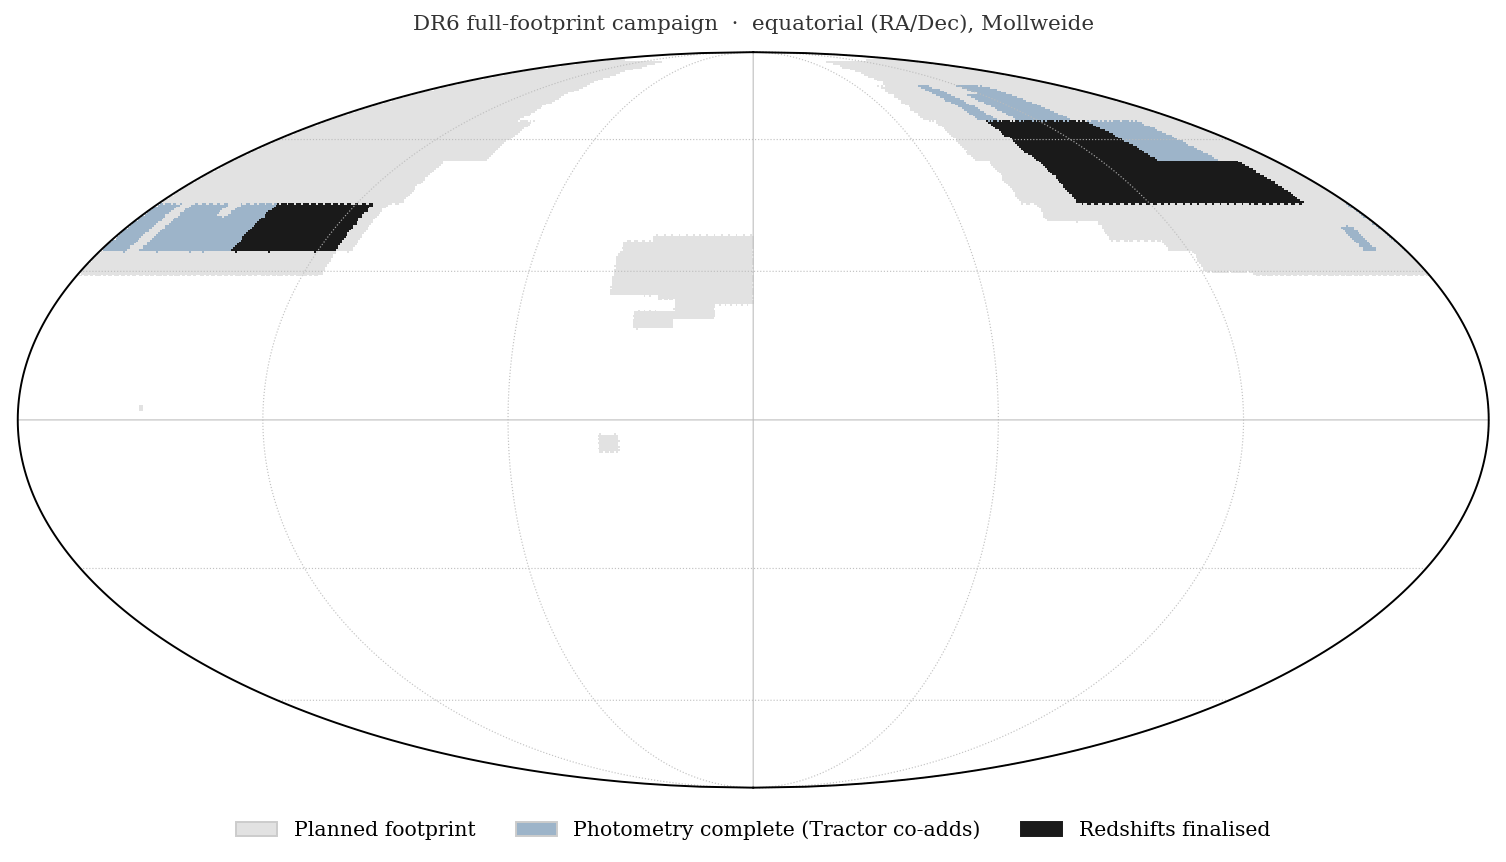
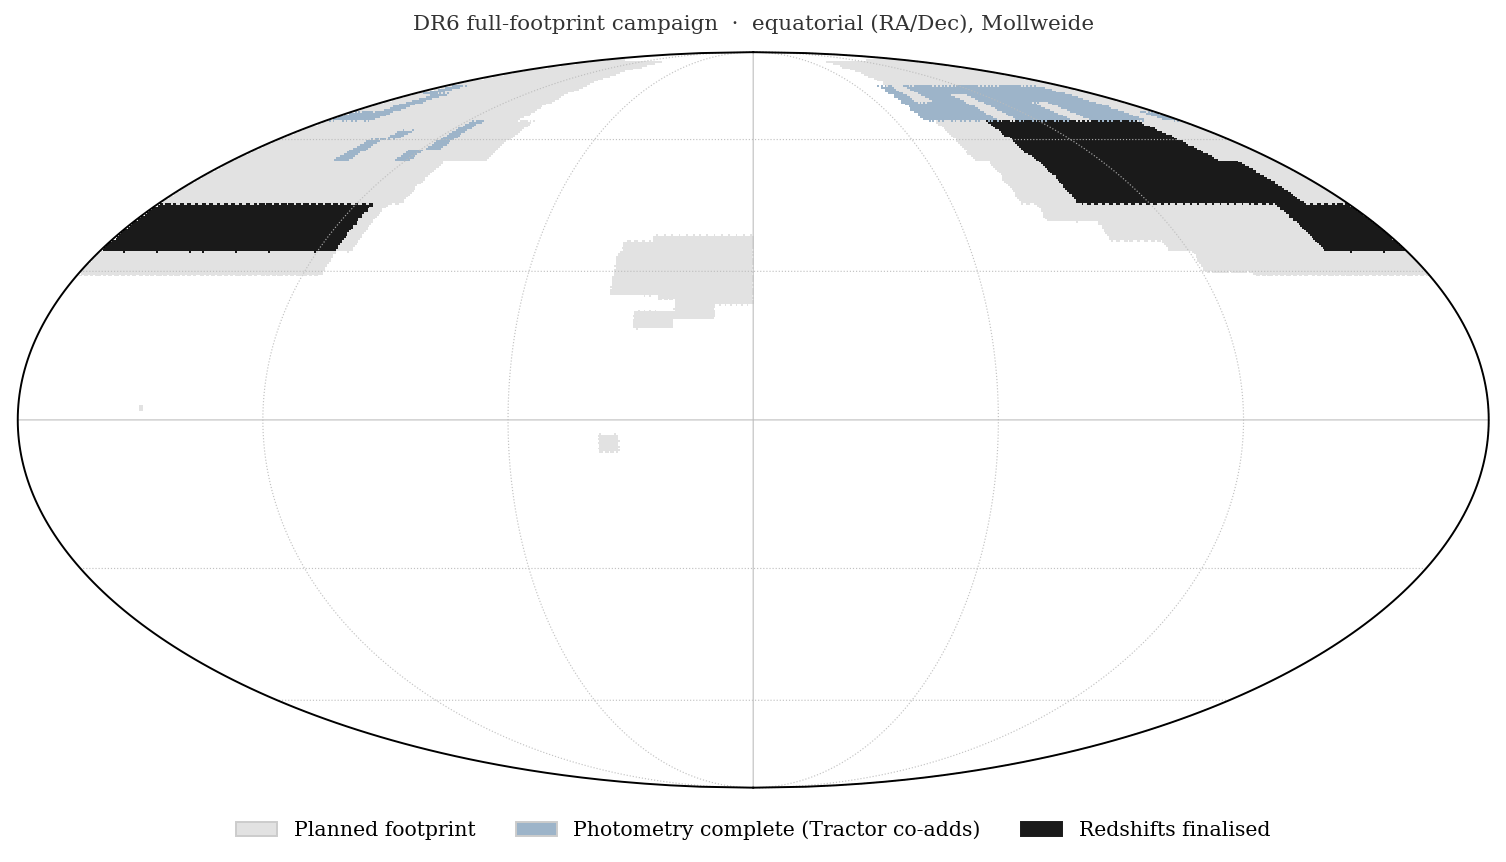
catalogue: refresh status — 13 finalised sub-regions (2.6M gal, ~1,830 deg² photometry)
Snapshot of live disk state 2026-07-04.

diff --git a/catalogue/status.html b/catalogue/status.html
@@ -44,7 +44,7 @@
   <h1>UNIONS position sample</h1>
   <p class="sub">Progress of the DR6 full-footprint catalogue campaign &mdash;
   forced photometry and redshifts.</p>
-  <p class="stamp">Snapshot generated 2026-07-03 18:28 CEST (Paris) &middot; 12:28 EDT (Waterloo) &middot; live disk state, preliminary.</p>
+  <p class="stamp">Snapshot generated 2026-07-04 10:36 CEST (Paris) &middot; 04:36 EDT (Waterloo) &middot; live disk state, preliminary.</p>
 
   <h2>Sky coverage</h2>
   <figure>
@@ -65,25 +65,25 @@
     <tbody>
       <tr>
         <td class="lab">Wave&nbsp;1 <span class='dim'>(ranks 0&ndash;9)</span></td>
-        <td class="num">996 deg&sup2;</td>
-        <td class="num">10 <span class="dim">(90%)</span></td>
+        <td class="num">1,077 deg&sup2;</td>
+        <td class="num">10 <span class="dim">(97%)</span></td>
         <td>8 = 895 deg&sup2; <span class="dim">(r000, r001, r002, r003, r004, r005, r006, r007)</span></td>
-        <td>7 = 786 deg&sup2; <span class="dim">(r000, r001, r002, r003, r004, r005, r007)</span></td>
+        <td>8 = 895 deg&sup2; <span class="dim">(r000, r001, r002, r003, r004, r005, r006, r007)</span></td>
       </tr>
       <tr>
         <td class="lab">Wave&nbsp;2 <span class='dim'>(ranks 10&ndash;29)</span></td>
-        <td class="num">378 deg&sup2;</td>
-        <td class="num">20 <span class="dim">(17%)</span></td>
-        <td>1 = 114 deg&sup2; <span class="dim">(r010)</span></td>
-        <td>1 = 114 deg&sup2; <span class="dim">(r010)</span></td>
+        <td class="num">753 deg&sup2;</td>
+        <td class="num">20 <span class="dim">(34%)</span></td>
+        <td>5 = 570 deg&sup2; <span class="dim">(r010, r011, r012, r013, r014)</span></td>
+        <td>5 = 570 deg&sup2; <span class="dim">(r010, r011, r012, r013, r014)</span></td>
       </tr>
     </tbody>
     <tfoot>
       <tr><td class="lab">Combined</td>
-        <td class="num">~1,374 deg&sup2;</td>
+        <td class="num">~1,830 deg&sup2;</td>
         <td class="num">64</td>
-        <td>9 = 1,008 deg&sup2;</td>
-        <td>8 = 900 deg&sup2;</td></tr>
+        <td>13 = 1,465 deg&sup2;</td>
+        <td>13 = 1,465 deg&sup2;</td></tr>
     </tfoot>
   </table>
   <p class="note">The area in each row is <b>cell-weighted</b> &mdash; the actual
@@ -93,10 +93,10 @@
   (those are the ones eligible to finalise into <code>combine_full.parquet</code>);
   <i>redshifts finalised</i> is the subset already delivered as z_est.</p>
   <ul>
-    <li>Cells: wave&nbsp;1 at <b>143/160</b>,
-    wave&nbsp;2 at <b>53/112</b>.</li>
-    <li>Finalised redshifts: <b>9 sub-regions</b>,
-    1,008&nbsp;deg&sup2;, 1,646,348 galaxies delivered into
+    <li>Cells: wave&nbsp;1 at <b>155/160</b>,
+    wave&nbsp;2 at <b>107/176</b>.</li>
+    <li>Finalised redshifts: <b>13 sub-regions</b>,
+    1,465&nbsp;deg&sup2;, 2,617,061 galaxies delivered into
     <code>combine_full.parquet</code>.</li>
   </ul>
 
@@ -113,15 +113,19 @@
       <tr><td class="lab">r003</td><td class="num">114 deg&sup2;</td><td class="num">16/16</td><td class="num">complete</td><td class="num">finalised</td><td class="num">&#10003;</td></tr>
       <tr><td class="lab">r004</td><td class="num">114 deg&sup2;</td><td class="num">16/16</td><td class="num">complete</td><td class="num">finalised</td><td class="num">&#10003;</td></tr>
       <tr><td class="lab">r005</td><td class="num">114 deg&sup2;</td><td class="num">16/16</td><td class="num">complete</td><td class="num">finalised</td><td class="num">&#10003;</td></tr>
-      <tr><td class="lab">r006</td><td class="num">108 deg&sup2;</td><td class="num">16/16</td><td class="num">complete</td><td class="num">&mdash;</td><td class="num">&#10003;</td></tr>
+      <tr><td class="lab">r006</td><td class="num">108 deg&sup2;</td><td class="num">16/16</td><td class="num">complete</td><td class="num">finalised</td><td class="num">&#10003;</td></tr>
       <tr><td class="lab">r007</td><td class="num">114 deg&sup2;</td><td class="num">16/16</td><td class="num">complete</td><td class="num">finalised</td><td class="num">&#10003;</td></tr>
-      <tr><td class="lab">r008</td><td class="num">108 deg&sup2;</td><td class="num">4/16</td><td class="num">25%</td><td class="num">&mdash;</td><td class="num">&#10003;</td></tr>
-      <tr><td class="lab">r009</td><td class="num">108 deg&sup2;</td><td class="num">11/16</td><td class="num">69%</td><td class="num">&mdash;</td><td class="num">&#10003;</td></tr>
+      <tr><td class="lab">r008</td><td class="num">108 deg&sup2;</td><td class="num">14/16</td><td class="num">88%</td><td class="num">&mdash;</td><td class="num">&#10003;</td></tr>
+      <tr><td class="lab">r009</td><td class="num">108 deg&sup2;</td><td class="num">13/16</td><td class="num">81%</td><td class="num">&mdash;</td><td class="num">&#10003;</td></tr>
       <tr><td class="lab">r010</td><td class="num">114 deg&sup2;</td><td class="num">16/16</td><td class="num">complete</td><td class="num">finalised</td><td class="num">&#10003;</td></tr>
-      <tr><td class="lab">r011</td><td class="num">114 deg&sup2;</td><td class="num">15/16</td><td class="num">94%</td><td class="num">&mdash;</td><td class="num">&#10003;</td></tr>
-      <tr><td class="lab">r012</td><td class="num">114 deg&sup2;</td><td class="num">12/16</td><td class="num">75%</td><td class="num">&mdash;</td><td class="num">&#10003;</td></tr>
-      <tr><td class="lab">r013</td><td class="num">114 deg&sup2;</td><td class="num">8/16</td><td class="num">50%</td><td class="num">&mdash;</td><td class="num">&#10003;</td></tr>
-      <tr><td class="lab">r014</td><td class="num">114 deg&sup2;</td><td class="num">2/16</td><td class="num">12%</td><td class="num">&mdash;</td><td class="num">&#10003;</td></tr>
+      <tr><td class="lab">r011</td><td class="num">114 deg&sup2;</td><td class="num">16/16</td><td class="num">complete</td><td class="num">finalised</td><td class="num">&#10003;</td></tr>
+      <tr><td class="lab">r012</td><td class="num">114 deg&sup2;</td><td class="num">16/16</td><td class="num">complete</td><td class="num">finalised</td><td class="num">&#10003;</td></tr>
+      <tr><td class="lab">r013</td><td class="num">114 deg&sup2;</td><td class="num">16/16</td><td class="num">complete</td><td class="num">finalised</td><td class="num">&#10003;</td></tr>
+      <tr><td class="lab">r014</td><td class="num">114 deg&sup2;</td><td class="num">16/16</td><td class="num">complete</td><td class="num">finalised</td><td class="num">&#10003;</td></tr>
+      <tr><td class="lab">r015</td><td class="num">108 deg&sup2;</td><td class="num">14/16</td><td class="num">88%</td><td class="num">&mdash;</td><td class="num">&#10003;</td></tr>
+      <tr><td class="lab">r016</td><td class="num">108 deg&sup2;</td><td class="num">6/16</td><td class="num">38%</td><td class="num">&mdash;</td><td class="num">&#10003;</td></tr>
+      <tr><td class="lab">r017</td><td class="num">108 deg&sup2;</td><td class="num">3/16</td><td class="num">19%</td><td class="num">&mdash;</td><td class="num">&#10003;</td></tr>
+      <tr><td class="lab">r018</td><td class="num">108 deg&sup2;</td><td class="num">4/16</td><td class="num">25%</td><td class="num">&mdash;</td><td class="num">&#10003;</td></tr>
     </tbody>
   </table>
 